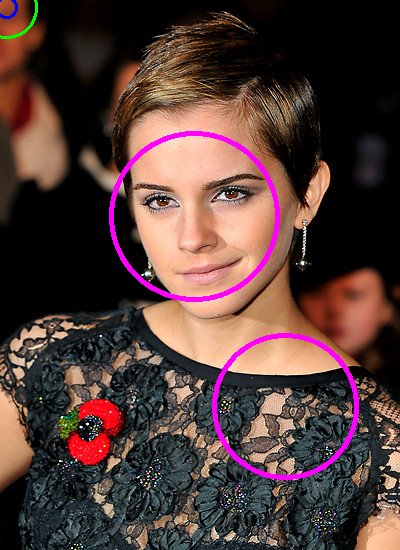
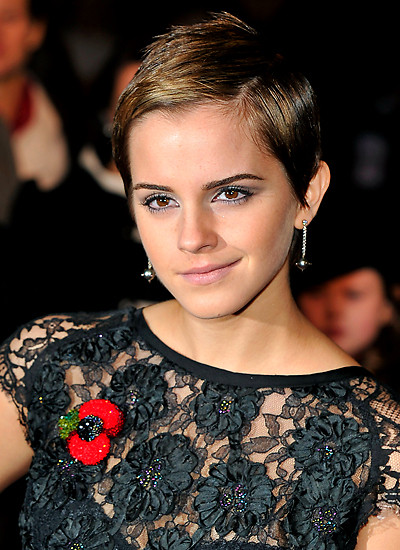
blending

diff --git a/cv/task2/main.cpp b/cv/task2/main.cpp
@@ -143,13 +143,13 @@ void detect(const Mat& face, Point2f& detected, char search, const Detection& pa
     case 2:
       cvRect(imag.cols * 0.5, 0, imag.cols * 0.5, imag.rows * 0.6);
       break;
-    default: // Mund
-      // lower 40%
+    default: // Mund  // lower 40%
       cvRect(0, imag.rows * 0.6, imag.cols, imag.rows * 0.4);  // todo width, height
       break;
   }
 
   Mat vec_feature;
+  Rect intersec;
   // - search through whole image using a sliding window with window size params.patch
   for (int y = 0; y < imag.rows - params.patch.height; y = y + params.patch.height)
   {
@@ -191,7 +191,7 @@ void detect(const Mat& face, Point2f& detected, char search, const Detection& pa
       //    - start with first and second, keep resulting ROI
       //    - intersect that ROI with next one and so on
       //    - neglect resulting ROIs having less than 80% area of the previous
-      Rect intersec = vec_score[0].second;
+      intersec = vec_score[0].second;
       Rect a;
       for (int i = 1; i < vec_score.size(); i++)
       {
@@ -213,8 +213,8 @@ void detect(const Mat& face, Point2f& detected, char search, const Detection& pa
 //      detected = Point2f(intersec.x, intersec.y); // needed in function maskFace()
     }
   }
-
-  detected = Point2f(6, 7); //
+  detected = Point2f(intersec.x, intersec.y);
+//  detected = Point2f(6, 7); //
 }
 
 bool fExists(const std::string& filename) {
@@ -345,7 +345,7 @@ void trainSVM(TrainingData Eyes, TrainingData Mouth, vector<string>& imageList, 
     top_left_right_eye.x = center_right_eye.x - (Eyes.patch.width / 2);
     top_left_right_eye.y = center_right_eye.y - (Eyes.patch.height / 2);
 
-    cout << imag.size() << endl;
+//    cout << imag.size() << endl;
     Point top_left_mouth;
     top_left_mouth.x = center_mouth.x - (Mouth.patch.width / 2);
     top_left_mouth.y = center_mouth.y + (Mouth.patch.height / 2);
@@ -490,12 +490,12 @@ void detectFace(const Mat& frame, Rect& faceROI)
 
   face_cascade.detectMultiScale(frame_gray, faces, face_params.scaleFactor, face_params.neighbours, face_params.flag, face_params.minSize); // todo refactor
 
-  for(ulong iter = 0; iter < faces.size(); iter++)
-  {
-    Point center( faces[iter].x + faces[iter].width*0.5, faces[iter].y + faces[iter].height*0.5 );
-    cv::ellipse( (Mat &) frame, center, Size( faces[iter].width*0.5, faces[iter].height*0.5), 0, 0, 360, Scalar( 255, 0, 255 ), 4, 8, 0 );
-    Mat faceROI = frame_gray( faces[iter] );
-  }
+//  for(ulong iter = 0; iter < faces.size(); iter++)
+//  {
+//    Point center( faces[iter].x + faces[iter].width*0.5, faces[iter].y + faces[iter].height*0.5 );
+//    cv::ellipse( (Mat &) frame, center, Size( faces[iter].width*0.5, faces[iter].height*0.5), 0, 0, 360, Scalar( 255, 0, 255 ), 4, 8, 0 );
+//    Mat faceROI = frame_gray( faces[iter] );
+//  }
 }
 
 void detectEyesMouth(const Mat& frame, const Rect& face, Point& left_eye, Point& right_eye, Point& mouth, const Detection& eyes_data, const Detection& mouth_data) {
@@ -538,13 +538,12 @@ void maskFace(Mat& mask, const Point left_eye, const Point right_eye, const Poin
   Point le = left_eye;
   Point re = right_eye;
   Point mc = mouth_center;
-  le.x = 1;
-  le.y = 2;
-  re.x = 3;
-  re.y = 4;
-  mc.x = 5;
-  mc.y = 6;
-
+//  le.x = 1;
+//  le.y = 2;
+//  re.x = 3;
+//  re.y = 4;
+//  mc.x = 5;
+//  mc.y = 6;
 
   // 1) get eyes_center point by calculating the mean value of left/right eye's x/y coordinates
   Point mean;
@@ -579,7 +578,7 @@ void maskFace(Mat& mask, const Point left_eye, const Point right_eye, const Poin
   float theta = acos(v_horizontal.dot(v_eyes) / norm) * 180 / PI; // todo radians
   cout << "theta " << theta << endl;
 
-//  cout << "mask " << mask.size() << endl;
+  //  cout << "mask " << mask.size() << endl;
 
   // 5) draw ellipses with opencv and set these parameters accordingly: color=Scalar(255, 255, 255), thickness=-1, lineType=8, shift=0
   // color=Scalar(255, 255, 255), thickness=-1, lineType=8, shift=0
@@ -629,17 +628,14 @@ Mat affineTransform(Mat imageToTransform, Point left_eye_one, Point right_eye_on
   two[2] = mouth_two;
 
   src = getAffineTransform(one, two);
-
-  cout << " Affine Transformat4" << src.size() << endl;
-  cout << " Affine Transformat4" << imageToTransform.size() << endl;
+//  cout << " Affine Transformat4" << src.size() << endl;
+//  cout << " Affine Transformat4" << imageToTransform.size() << endl;
 
   // 2) apply the calculated transformation on imageToTransform. The size of the image must not change
   warpAffine(imageToTransform, warp_dst, src, warp_dst.size());
-  cout << " Affine Transformat5" << endl;
 
   // 3) write the calculated transformation matrix to T
   T = src;
-
   return warp_dst;
 }
 
@@ -679,10 +675,10 @@ vector<Point2f> affineTransformVertices(Mat image, Mat& T)
   E.at<float>(1,3) =  width;//ex4
   E.at<float>(2,3) =  1;//
 
-  cout << "a  >>>" <<  E.size() << endl;
-  cout << "a  >>>" <<  E.cols << endl;
-  cout << "T  >>>" <<  T.size() << endl;
-  cout << "T  >>>" <<  T.cols << endl;
+  //  cout << "a  >>>" <<  E.size() << endl;
+  //  cout << "a  >>>" <<  E.cols << endl;
+  //  cout << "T  >>>" <<  T.size() << endl;
+  //  cout << "T  >>>" <<  T.cols << endl;
   E.mul(T);
 
   vector<Point2f> tmp;
@@ -691,12 +687,9 @@ vector<Point2f> affineTransformVertices(Mat image, Mat& T)
   tmp.push_back(Point2f(E.at<float>(1,2), E.at<float>(0,2)));
   tmp.push_back(Point2f(E.at<float>(1,3), E.at<float>(0,3)));
 
-  cout << " beer" << endl;
   // 2) return a vector containing the four transformed vertices in the following order:
   //    up/left, up/right, bottom/left, bottom/right
-
-//  return vector<Point2f>(4, Point(1,2));
-  return       tmp;
+  return tmp; // return vector<Point2f>(4, Point(1,2));
 }
 
 //================================================================================
@@ -744,7 +737,8 @@ void distTransform(const Mat& src, Mat& dest) {
 
   cout << " distransform" << endl;
 	// comment out or delete the next line if you want to do the bonus:
-	cv::distanceTransform(src, dest, CV_DIST_C, CV_DIST_MASK_PRECISE);
+//	cv::distanceTransform(src, dest, CV_DIST_C, CV_DIST_MASK_PRECISE);
+	cv::distanceTransform(src, dest, CV_DIST_C, 3);
 	// --- your BONUS code here:
 }
 
@@ -755,12 +749,12 @@ void distTransform(const Mat& src, Mat& dest) {
 // 1) calculate imageCount and alpha
 // 2) calculate the alpha blended mask and transition image
 // 3) do a distance transformation with openCV
-//		- set distanceType = CV_DIST_C
-//		- set maskSize = 3
+//    - set distanceType = CV_DIST_C
+//    - set maskSize = 3
 // 4) calculate alpha-blended mask with gauss weighting (format: CV_32FC1)
-//		- sigma = 11
+//    - sigma = 11
 // 5) blure the calculated image
-// 6) calculate the final image using the transition image, the blured image 
+// 6) calculate the final image using the transition image, the blured image
 //    and the alpha-blended mask
 //
 // parameters:
@@ -774,7 +768,53 @@ void distTransform(const Mat& src, Mat& dest) {
 vector<Mat> blendFaceSequence(vector<FaceInfo*> faces, int transitionTime, int fps)
 {
   cout << " blendFaceSequence" << endl;
+
+ // 1) calculate imageCount and alpha
+  int imagecount = (transitionTime/1000) * fps;
+
+//  cout << faces[0]->face << endl;
+//  cout << faces[0]->face_trans << endl;
+//  cout << faces[0]->face_trimmed << endl;
+
   vector<Mat> r;
+  Mat final = Mat(faces[1]->face.rows,faces[1]->face.cols, CV_32FC1);
+  // 2) calculate the alpha blended mask and transition image
+  for (int i = 0; i < faces.size() - 1; i++)
+  {
+    // 2) calculate the alpha blended mask and transition image
+    for (int j = 1; j <= 4; j++)
+    {
+      float alpha = j / imagecount;
+      faces[i]->face_trans = (1 - alpha) * faces[i]->face + alpha * faces[i + 1]->face;
+
+      // 3) do a distance transformation with openCV
+      //		- set distanceType = CV_DIST_C
+      //		- set maskSize = 3
+      distTransform(faces[i]->mask, faces[i]->mask);
+
+      // 4) calculate alpha-blended mask with gauss weighting (format: CV_32FC1)
+      //		- sigma = 11
+      for (int k = 0; k < faces[i]->mask.cols; k++) {
+        for (int l = 0; l < faces[i]->mask.rows; l++) {
+          faces[i]->mask.at<int>(k,l) = 1.f - exp(-(pow(faces[i]->mask.at<int>(k,l),2) / (2 * 11^2)));
+        }
+      }
+
+      Mat blur;
+      GaussianBlur(faces[i]->face_trans, blur,Size(11, 11), 11, 11);
+      // Mat blur = GaussianBlur(faces[i]->face_trans.at<int>(k,l), faces[i]->face_trans.at<int>(k,l),Size(11, 11), 11, 11);
+      for (int k = 0; k < faces[i]->mask.cols; k++) {
+        for (int l = 0; l < faces[i]->mask.rows; l++) {
+          final.at<int>(k, l) = faces[i]->mask.at<int>(k, l) * faces[i]->face_trans.at<int>(k,l) + (1 - faces[i]->mask.at<int>(k, l)) * blur.at<int>(k,l);
+        }
+      }
+    }
+    r.push_back(final);
+  }
+
+  // 6) calculate the final image using the transition image, the blured image
+  //    and the alpha-blended mask
+
   return r;
 }
 
